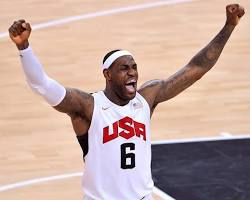
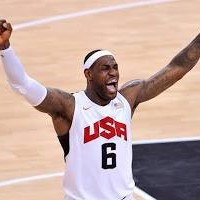
Update user.png with new photo dimensions

diff --git a/src/main/java/taskalyn/DialogBox.java b/src/main/java/taskalyn/DialogBox.java
@@ -43,7 +43,7 @@ public class DialogBox extends HBox {
 
         dialog.setText(text);
         displayPicture.setImage(img);
-        Circle clip = new Circle(49.5, 49.5, 32);
+        Circle clip = new Circle(49.5, 49.5, 45);
         displayPicture.setClip(clip);
     }
 
